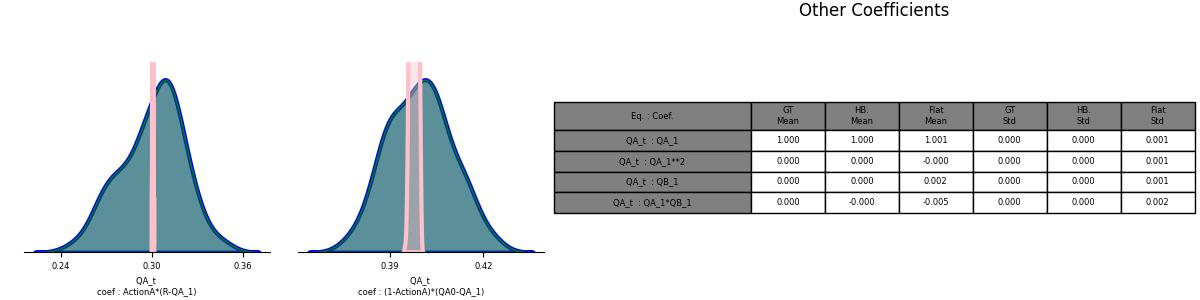
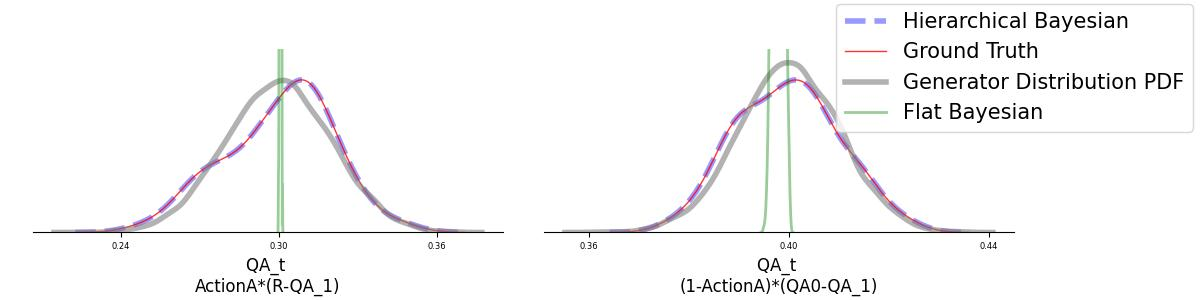
custom plot utils add

diff --git a/src/custom_plot.py b/src/custom_plot.py
@@ -17,7 +17,7 @@ from scipy.stats import gaussian_kde
     # (gt, BH, Flat_B)
     # with or without table?
 
-def Custom_plot(ground_truth = True, HB_Est = True, FlatB_Est = True,TABLE = False, gt_utils=None, realparame2gtarray=None, save_dir_prefix=None,
+def Custom_plot(generate_pdf, ground_truth = True, HB_Est = True, FlatB_Est = True,pdf_state = True, TABLE = False, gt_utils=None, realparame2gtarray=None, save_dir_prefix=None,
                fighigth=3, figwidth=12, n_rows=None, n_cols=None,
                scaler=None, to_plot=None, plot_dict=dict()):
     if TABLE:
@@ -35,7 +35,14 @@ def Custom_plot(ground_truth = True, HB_Est = True, FlatB_Est = True,TABLE = Fal
     est_color = plot_dict.get('est_color', 'blue')
     gt_color = plot_dict.get('gt_color', 'pink')
     flat_color = plot_dict.get('flat_color', 'grey')
+    pdf_color = plot_dict.get("pdf_color","red")
+    pdf_fill = plot_dict.get("pdf_fill",False)
+    pdf_line_width = plot_dict.get("pdf_line_width",2)
     max_y_limit = plot_dict.get("max_y_limit",0.98)
+    plot_name = plot_dict.get("plot_name",'custom_plot.jpg')
+    ############################# PDF #####################################
+    if pdf_state:
+        pdf_arr = generate_pdf(save_path)
 
     ############################## Load GT Data ###########################
     true_params_filename = os.path.join(save_path, true_params_file_str)
@@ -133,8 +140,9 @@ def Custom_plot(ground_truth = True, HB_Est = True, FlatB_Est = True,TABLE = Fal
         y_lim = 0
         try:
             if HB_Est:
-                sns.kdeplot(est_coef_mean_arr[:, index[1], index[0]], ax=axi, fill=True, color=est_color, alpha=.4,
-                            warn_singular=False, linewidth=3)
+                print("HB add")
+                sns.kdeplot(est_coef_mean_arr[:, index[1], index[0]], ax=axi, fill=False, color=est_color, alpha=.4,
+                            warn_singular=False, linewidth=4,ls='--',label="Hierarchical Bayesian")
                 data = est_coef_mean_arr[:, index[1], index[0]]
                 kernel = gaussian_kde(data)
                 x_values = np.linspace(min(data), max(data), 100)
@@ -145,9 +153,10 @@ def Custom_plot(ground_truth = True, HB_Est = True, FlatB_Est = True,TABLE = Fal
 
 
             if ground_truth:
+                print("gt add")
                 if true_params:
-                    sns.kdeplot(gt_coef_array[index[0], index[1], :], ax=axi, fill=True, color=gt_color, alpha=.4,
-                                warn_singular=False, linewidth=1)
+                    sns.kdeplot(gt_coef_array[index[0], index[1], :], ax=axi, fill=False, color=gt_color, alpha=.8,
+                                warn_singular=False, linewidth=1,label="Ground Truth")
 
                     data = gt_coef_array[index[0], index[1], :]
                     kernel = gaussian_kde(data)
@@ -156,11 +165,24 @@ def Custom_plot(ground_truth = True, HB_Est = True, FlatB_Est = True,TABLE = Fal
                     kernel = gaussian_kde(data)
                     peak_y = np.max(y_values)
                     y_lim = max(y_lim, peak_y)
+            if pdf_state:
+                print("pdf add")
+                print(pdf_arr.shape)
+                sns.kdeplot(pdf_arr[index[0], index[1],:], ax=axi, fill=pdf_fill, color=pdf_color, alpha=.6,
+                            warn_singular=False, linewidth=4,label="Generator Distribution PDF")
+                # data = pdf_arr[index[0], index[1],:]
+                # kernel = gaussian_kde(data)
+                # x_values = np.linspace(min(data), max(data), 100)
+                # y_values = kernel(x_values)
+                # kernel = gaussian_kde(data)
+                # peak_y = np.max(y_values)
+                # y_lim = max(y_lim, peak_y)
 
         except:
             if HB_Est:
-                sns.kdeplot(est_coef_mean_arr[:, index[1], index[0]], ax=axi, fill=True, color=est_color, alpha=.4,
-                            warn_singular=False, linewidth=3)
+                print("HB add")
+                sns.kdeplot(est_coef_mean_arr[:, index[1], index[0]], ax=axi, fill=False, color=est_color, alpha=.4,
+                            warn_singular=False, linewidth=4,ls='--',label="Hierarchical Bayesian")
                 data = est_coef_mean_arr[:, index[1], index[0]]
                 kernel = gaussian_kde(data)
                 x_values = np.linspace(min(data), max(data), 100)
@@ -170,9 +192,10 @@ def Custom_plot(ground_truth = True, HB_Est = True, FlatB_Est = True,TABLE = Fal
                 y_lim = max(y_lim,peak_y)
 
             if ground_truth:
+                print("gt add")
                 if true_params:
-                    sns.kdeplot(gt_coef_array[index[0], index[1], :], ax=axi, fill=True, color=gt_color, alpha=.2,
-                                warn_singular=False, linewidth=1)
+                    sns.kdeplot(gt_coef_array[index[0], index[1], :], ax=axi, fill=False, color=gt_color, alpha=.8,
+                                warn_singular=False, linewidth=1,label="Ground Truth")
                     data = gt_coef_array[index[0], index[1], :]
                     kernel = gaussian_kde(data)
                     x_values = np.linspace(min(data), max(data), 100)
@@ -181,14 +204,25 @@ def Custom_plot(ground_truth = True, HB_Est = True, FlatB_Est = True,TABLE = Fal
                     peak_y = np.max(y_values)
                     y_lim = max(y_lim, peak_y)
 
-
+            if pdf_state:
+                print("pdf add")
+                sns.kdeplot(pdf_arr[index[0], index[1],:], ax=axi, fill=False, color=pdf_color, alpha=.4,
+                            warn_singular=False, linewidth=4,label="Generator Distribution PDF")
+                data = pdf_arr[index[0], index[1],:]
+                kernel = gaussian_kde(data)
+                x_values = np.linspace(min(data), max(data), 100)
+                y_values = kernel(x_values)
+                kernel = gaussian_kde(data)
+                peak_y = np.max(y_values)
+                y_lim = max(y_lim, peak_y)
 
         if FlatB_Est:
+            print("flat add")
             print("flat shape",flat_est_coef_array.shape)
-            sns.kdeplot(flat_est_coef_array[:, index[1],index[0]], ax=axi, fill=True, color=flat_color, alpha=.4,
-                        warn_singular=False, linewidth=3)
+            sns.kdeplot(flat_est_coef_array[:, index[1],index[0]], ax=axi, fill=False, color=flat_color, alpha=.4,
+                        warn_singular=False, linewidth=2,ls='-',label="Flat Bayesian")
             # max_y_limit = .98  # A good starting value, adjust as needed
-        axi.set_ylim(0, y_lim * 1.1)
+        axi.set_ylim(0, y_lim * 1.2)
 
         # est_mean = np.mean(est_coef_mean_arr[:, index[1], index[0]])
         # est_std = np.std(est_coef_mean_arr[:, index[1], index[0]])
@@ -200,7 +234,7 @@ def Custom_plot(ground_truth = True, HB_Est = True, FlatB_Est = True,TABLE = Fal
         # if true_params:
         #     axi.axvline(gt_mean, color=gt_color, linestyle='--', label=f'gt_mean = {gt_mean:.3f}')
 
-        axi.set_xlabel(f"{eqs[eq_i].split("=")[0]}\ncoef : {coef_names[index[1]]}", fontsize=xlabel_fontsize)
+        axi.set_xlabel(f"{eqs[eq_i].split("=")[0]}\n{coef_names[index[1]]}", fontsize=xlabel_fontsize)
         axi.set_ylabel(" ", fontsize=xlabel_fontsize)
         axi.xaxis.set_major_locator(plt.MaxNLocator(3))
         axi.set_yticks(np.array([0]))
@@ -209,6 +243,8 @@ def Custom_plot(ground_truth = True, HB_Est = True, FlatB_Est = True,TABLE = Fal
         axi.spines['left'].set_visible(False)
         axi.spines['top'].set_visible(False)
         axi.spines['right'].set_visible(False)
+        if col==n_cols-1 and row_plot_idx==0:
+            axi.legend(loc='center left', bbox_to_anchor=(.6, 0.9))
         if legend_True:
             axi.legend(loc='upper center', bbox_to_anchor=(0.5, 1.03), ncol=1, fancybox=True, shadow=True, fontsize=8)
 
@@ -264,6 +300,6 @@ def Custom_plot(ground_truth = True, HB_Est = True, FlatB_Est = True,TABLE = Fal
         bottom=0.2,  # Bottom margin (pushes subplots up)
         wspace=0.6  # Width space between subplots
     )
-    plt.savefig(os.path.join(os.getcwd(), 'custom_plot.jpg'))
+    plt.savefig(os.path.join(os.getcwd(), plot_name))
     plt.show()
     print("plot run finished")

diff --git a/examples/Lotka_Volterra/custom_plot.py b/examples/Lotka_Volterra/custom_plot.py
@@ -2,19 +2,19 @@ import os
 os.environ['PYTHONUNBUFFERED'] = '1'
 os.environ["XLA_FLAGS"] = "--xla_force_host_platform_device_count=64"
 from src.custom_plot import Custom_plot
-from src.Dynamical_systems_utils.Lotka_Voltera import gt_utils,realparame2gtarray
+from src.Dynamical_systems_utils.Lotka_Voltera import gt_utils,realparame2gtarray,generate_pdf
 
 
 save_dir_prefix = "LV_chk_"
 
 to_plot = [[0,1],[0,3],[1,2],[1,3]]
 
-plot_dict = {"est_color": "blue", "gt_color": "green", "flat_color":"pink",
-             "legend": None, "xlabel_fontsize": 6, "title_fontsize": None,
-             "max_y_limit": 10}
+plot_dict = {"est_color": "blue", "gt_color": "red", "flat_color":"green","pdf_color":"grey",
+             "legend": None, "xlabel_fontsize": 12, "title_fontsize": None,
+             "max_y_limit": 40.3,"save_name":"custom_with_pdf","pdf_fill":False}
 
-Custom_plot(ground_truth = True, HB_Est = True, FlatB_Est = True,TABLE = True,
+Custom_plot(generate_pdf, pdf_state=True, ground_truth = True, HB_Est = True, FlatB_Est = True,TABLE = False,
             gt_utils=gt_utils, realparame2gtarray=realparame2gtarray, save_dir_prefix=save_dir_prefix,
-           fighigth=3, figwidth=12, n_rows=2, n_cols=2,
+           fighigth=8, figwidth=12, n_rows=2, n_cols=2,
            scaler="scale", to_plot=to_plot, plot_dict=plot_dict)
 

diff --git a/examples/Fitz_Hugh_Nagumo/custom_plot.py b/examples/Fitz_Hugh_Nagumo/custom_plot.py
@@ -2,18 +2,18 @@ import os
 os.environ['PYTHONUNBUFFERED'] = '1'
 os.environ["XLA_FLAGS"] = "--xla_force_host_platform_device_count=64"
 from src.custom_plot import Custom_plot
-from src.Dynamical_systems_utils.FitzHughNagumo import mix_data,gt_utils,realparame2gtarray
+from src.Dynamical_systems_utils.FitzHughNagumo import gt_utils,realparame2gtarray,generate_pdf
 
 
 save_dir_prefix = "FHN_chk_"
 
 to_plot = [[1,0],[1,1]]
 
-plot_dict = {"est_color": "blue", "gt_color": "green", "flat_color":"pink",
-             "legend": None, "xlabel_fontsize": 6, "title_fontsize": None,
-             "max_y_limit": 10}
+plot_dict = {"est_color": "blue", "gt_color": "red", "flat_color":"green","pdf_color":"grey",
+             "legend": None, "xlabel_fontsize": 12, "title_fontsize": None,
+             "max_y_limit": 40.3,"save_name":"custom_with_pdf","pdf_fill":False}
 
-Custom_plot(ground_truth = True, HB_Est = True, FlatB_Est = True,TABLE = True,
+Custom_plot(generate_pdf, pdf_state=True, ground_truth = True, HB_Est = True, FlatB_Est = True,TABLE = False,
             gt_utils=gt_utils, realparame2gtarray=realparame2gtarray, save_dir_prefix=save_dir_prefix,
            fighigth=3, figwidth=12, n_rows=1, n_cols=2,
            scaler=None, to_plot=to_plot, plot_dict=plot_dict)

diff --git a/examples/Damped_Forced_Harmonic_Oscillator/custom_plot.py b/examples/Damped_Forced_Harmonic_Oscillator/custom_plot.py
@@ -2,18 +2,17 @@ import os
 os.environ['PYTHONUNBUFFERED'] = '1'
 os.environ["XLA_FLAGS"] = "--xla_force_host_platform_device_count=64"
 from src.custom_plot import Custom_plot
-from src.Dynamical_systems_utils.DampedForced_HO import gt_utils,realparame2gtarray
+from src.Dynamical_systems_utils.DampedForced_HO import gt_utils,realparame2gtarray,generate_pdf
 
 
 save_dir_prefix = "DFHO_chk_"
 
 to_plot = [[1,1],[1,2],[1,3]]
+plot_dict = {"est_color": "blue", "gt_color": "red", "flat_color":"green","pdf_color":"grey",
+             "legend": None, "xlabel_fontsize": 12, "title_fontsize": None,
+             "max_y_limit": 40.3,"save_name":"custom_with_pdf","pdf_fill":False}
 
-plot_dict = {"est_color": "blue", "gt_color": "green", "flat_color":"pink",
-             "legend": None, "xlabel_fontsize": 6, "title_fontsize": None,
-             "max_y_limit": 4}
-
-Custom_plot(ground_truth = True, HB_Est = True, FlatB_Est = True,TABLE = True,
+Custom_plot(generate_pdf, pdf_state=True, ground_truth = True, HB_Est = True, FlatB_Est = True,TABLE = False,
             gt_utils=gt_utils, realparame2gtarray=realparame2gtarray, save_dir_prefix=save_dir_prefix,
            fighigth=3, figwidth=12, n_rows=1, n_cols=3,
            scaler=None, to_plot=to_plot, plot_dict=plot_dict)

diff --git a/examples/RLC/custom_plot.py b/examples/RLC/custom_plot.py
@@ -2,18 +2,18 @@ import os
 os.environ['PYTHONUNBUFFERED'] = '1'
 os.environ["XLA_FLAGS"] = "--xla_force_host_platform_device_count=64"
 from src.custom_plot import Custom_plot
-from src.Dynamical_systems_utils.RLC import gt_utils,realparame2gtarray
+from src.Dynamical_systems_utils.RLC import gt_utils,realparame2gtarray,generate_pdf
 
 
 save_dir_prefix = "RLC_chk_"
 
 to_plot = [[1,0],[1,1],[1,2]]
 
-plot_dict = {"est_color": "blue", "gt_color": "green", "flat_color":"pink",
+plot_dict = {"est_color": "blue", "gt_color": "red", "flat_color":"green","pdf_color":"grey",
              "legend": None, "xlabel_fontsize": 6, "title_fontsize": None,
-             "max_y_limit": 10}
+             "max_y_limit": 40.3,"save_name":"custom_with_pdf"}
 
-Custom_plot(ground_truth = True, HB_Est = True, FlatB_Est = True,TABLE = True,
+Custom_plot(generate_pdf, pdf_state=True, ground_truth = True, HB_Est = True, FlatB_Est = True,TABLE = False,
             gt_utils=gt_utils, realparame2gtarray=realparame2gtarray, save_dir_prefix=save_dir_prefix,
            fighigth=3, figwidth=12, n_rows=1, n_cols=3,
            scaler=None, to_plot=to_plot, plot_dict=plot_dict)

diff --git a/examples/Cognetive_RL/custom_plot.py b/examples/Cognetive_RL/custom_plot.py
@@ -4,16 +4,15 @@ os.environ["XLA_FLAGS"] = "--xla_force_host_platform_device_count=64"
 from src.custom_plot import Custom_plot
 from src.Dynamical_systems_utils.Cognetive_RL.CRL_Data_Gen import gt_utils,realparame2gtarray, generate_pdf
 
-
 save_dir_prefix = "CRL_chk_"
 
 to_plot = [[0,1],[0,2]]
 
-plot_dict = {"est_color": "blue", "gt_color": "green", "flat_color":"pink",
-             "legend": None, "xlabel_fontsize": 6, "title_fontsize": None,
-             "max_y_limit": 40.3}
+plot_dict = {"est_color": "blue", "gt_color": "red", "flat_color":"green","pdf_color":"grey",
+             "legend": None, "xlabel_fontsize": 12, "title_fontsize": None,
+             "max_y_limit": 40.3,"save_name":"custom_with_pdf","pdf_fill":False}
 
-Custom_plot(ground_truth = True, HB_Est = True, FlatB_Est = True,TABLE = True,
+Custom_plot(generate_pdf, pdf_state=True, ground_truth = True, HB_Est = True, FlatB_Est = True,TABLE = False,
             gt_utils=gt_utils, realparame2gtarray=realparame2gtarray, save_dir_prefix=save_dir_prefix,
            fighigth=3, figwidth=12, n_rows=1, n_cols=2,
            scaler=None, to_plot=to_plot, plot_dict=plot_dict)
